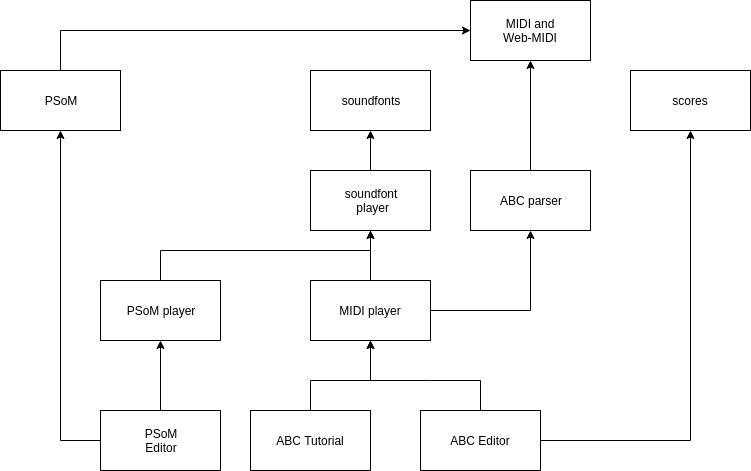
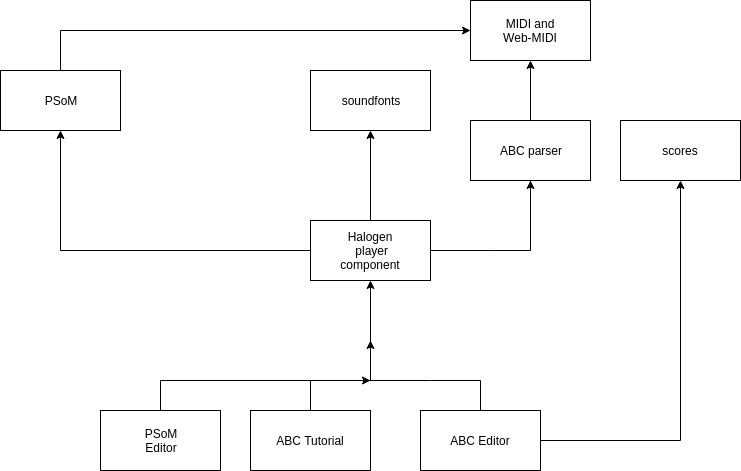
Update diagram and README

diff --git a/README.md b/README.md
@@ -14,7 +14,7 @@ PureScript
 | [purescript-audiograph](https://github.com/newlandsvalley/purescript-audiograph)            | declarative interface into web-audio  |
 
 
-All these projects run in the browser, use Pux/smolder or Halogen to generate the HTML and web-audio to generate sound. The last project is an experiment built solely around purescript-webaudio. The first four projects share various libraries whose interdependencies are shown below. These include various players which are implemented as autonomous Pux modules. 
+All these projects run in the browser, and use web-audio to generate sound. The MIDI Keyboard player uses Pux as the UI component, whilst all the others use Halogen. The last project is an experiment built solely around purescript-webaudio. The first four projects share various libraries whose interdependencies are shown below. 
 
 ![dependencies](https://github.com/newlandsvalley/music-projects/blob/master/ps-dependencies.jpg)
 
@@ -27,9 +27,11 @@ The audio libraries include:
 | [purescript-midi](https://github.com/newlandsvalley/purescript-midi)                  | General MIDI, Web-MIDI and MIDI instruments                  |
 | [purescript-abc-parser](https://github.com/newlandsvalley/purescript-abc-parser)            | parser for the ABC notation                        |
 | [purescript-scores](https://github.com/newlandsvalley/purescript-scores)                | generate music scores using VexTab                 |
-| various players                  | play a variety of music using a common interface   |
+| [purescript-halogen-components](https://github.com/newlandsvalley/purescript-halogen-components)               | various components including a generic player  |
 
 Note that these libraries are for use in the browser and are not available for Node.
+
+Earlier versions of the projects used Pux exclusively under PureScript 0.11. These used a base [purescript-soundfont-player](https://github.com/newlandsvalley/purescript-soundfont-player) with two specialised players - [purescript-midi-player](https://github.com/newlandsvalley/purescript-midi-player) and [purescript-psom-player](https://github.com/newlandsvalley/purescript-psom-player) built by wrapping the base soundfont player.
 
 
 Elm
